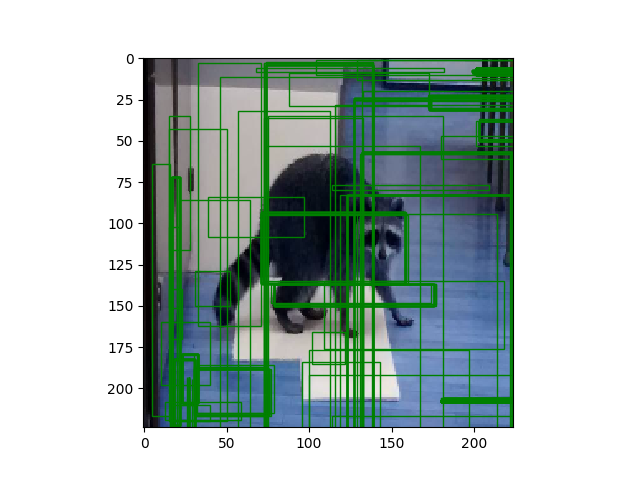
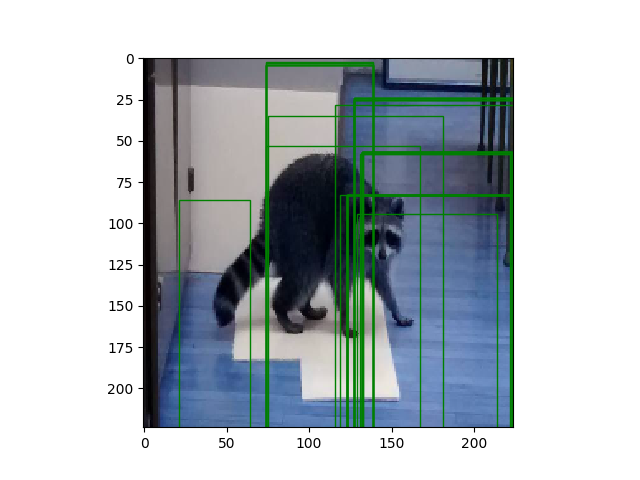
filtering boxe predictions

Changed region(s): [[0.25, 0.125, 0.8125, 0.9062], [0.5, 0.375, 0.75, 0.4062], [0.7812, 0.5938, 0.8125, 0.7188]]

diff --git a/lib/utils.py b/lib/utils.py
@@ -314,7 +314,7 @@ def bbox_plot(img, box):
 		ax.add_patch(s)
 	plt.savefig("prediction.png")
 
-
+'''
 # Malisiewicz et al.
 def non_max_suppression_fast(boxes, overlapThresh):
     # if there are no boxes, return an empty list
@@ -371,3 +371,14 @@ def non_max_suppression_fast(boxes, overlapThresh):
     # return only the bounding boxes that were picked using the
     # integer data type
     return boxes[pick].astype("int")
+'''
+
+def filter(boxes, classes):
+    # """Remove all boxes with any side smaller than min_size."""
+    # ws = boxes[:, 2] - boxes[:, 0] + 1
+    # hs = boxes[:, 3] - boxes[:, 1] + 1
+    # keep = np.where((ws >= min_size) & (hs >= min_size))[0]
+    # return keep
+    ind = [i for i in range(len(classes)) if classes[i]>0.5]
+    boxes = [boxes[i] for i in range(len(boxes)) if i in ind]
+    return boxes

diff --git a/prediction.py b/prediction.py
@@ -39,7 +39,7 @@ with tf.Session(graph=new_graph) as sess:
     boxes = rpn[1].reshape(rpn[1].shape[0], rpn[1].shape[1]*rpn[1].shape[2], rpn[1].shape[3])
     boxes[0][:,[0, 2]] = boxes[0][:,[0, 2]] * 224
     boxes[0][:, [1, 3]] = boxes[0][:, [1, 3]] * 224
-    import pdb; pdb.set_trace()
-    nms_box = utils.non_max_suppression_fast(np.abs(boxes[0]), 0.7)
-    nms_box = nms_box[:50]
+    classes = rpn[0].reshape(rpn[0].shape[0], rpn[0].shape[1]*rpn[0].shape[2], rpn[0].shape[3])
+    boxes = utils.filter(np.abs(boxes[0]), classes)
+    nms_box = utils.non_max_suppression_fast(boxes, 0.7)
     utils.bbox_plot(img[0], nms_box)
